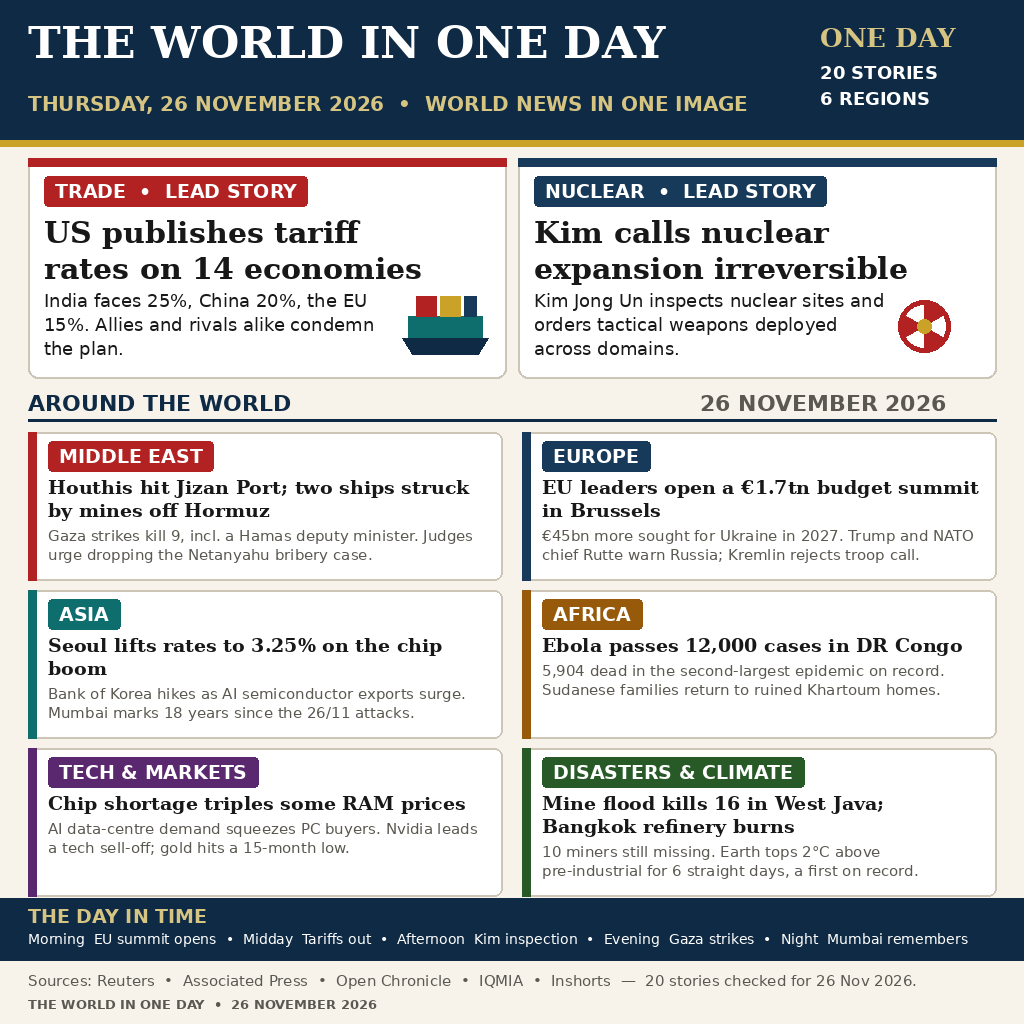
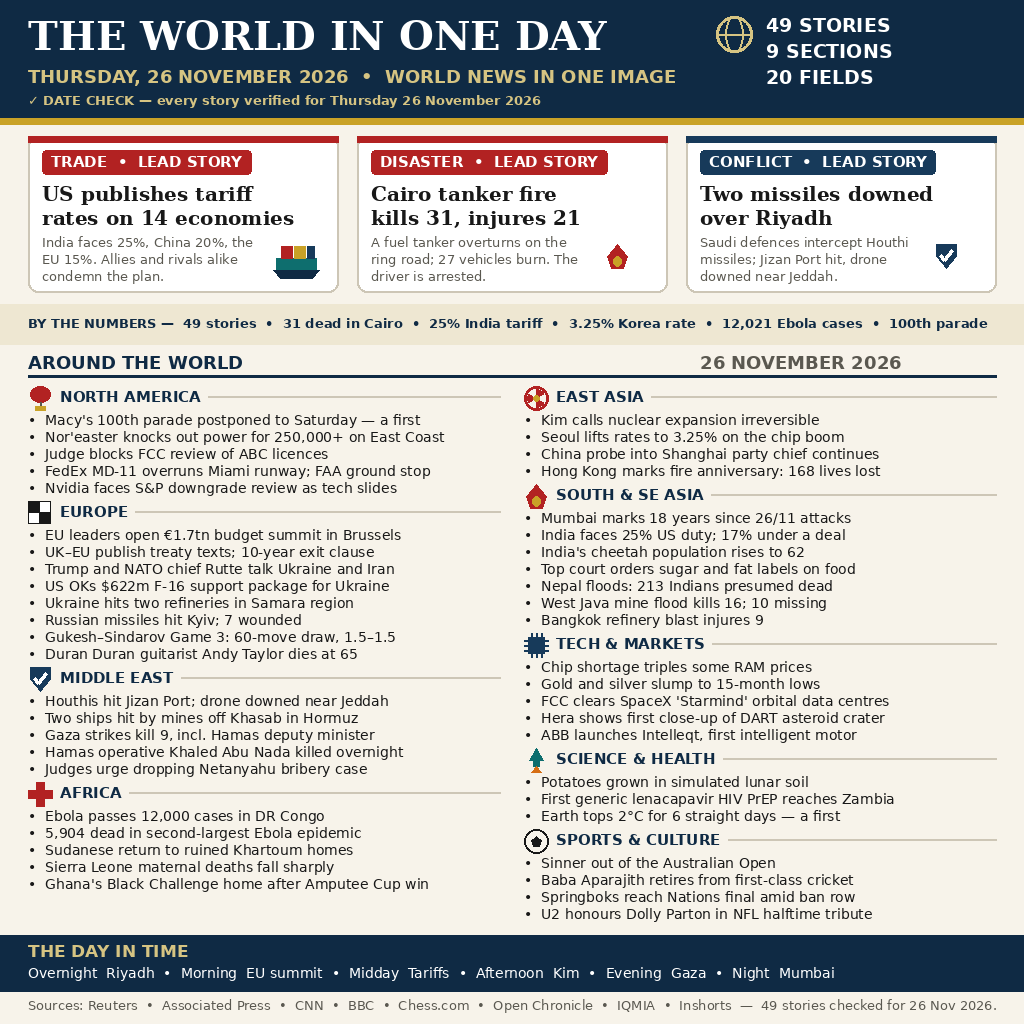
v2: 49-story broadsheet (3 leads, 9 sections, 20 fields)

diff --git a/main.py b/main.py
@@ -5,10 +5,11 @@ Writes the image that sums up the world's news of Thursday
 26 November 2026 to /output/entry.png.
 
 The image is a broadsheet drawn for this bounty: masthead with the
-date, two lead stories (US tariff rates on 14 economies; Kim Jong
-Un calling North Korea's nuclear expansion irreversible), six
-regional stories, and a timeline of the day. It is stored in this
-repository as entry.png (1024x1024, under 1 MiB).
+date and a date check, three lead stories (US tariff rates on 14
+economies; the Cairo tanker fire; missiles downed over Riyadh),
+49 stories across nine sections and 20 fields, a by-the-numbers
+strip, and a timeline of the day. It is stored in this repository
+as entry.png (1024x1024, under 1 MiB).
 
 Standard library only, no network, fully deterministic: every run
 copies the same bytes to the same path.
